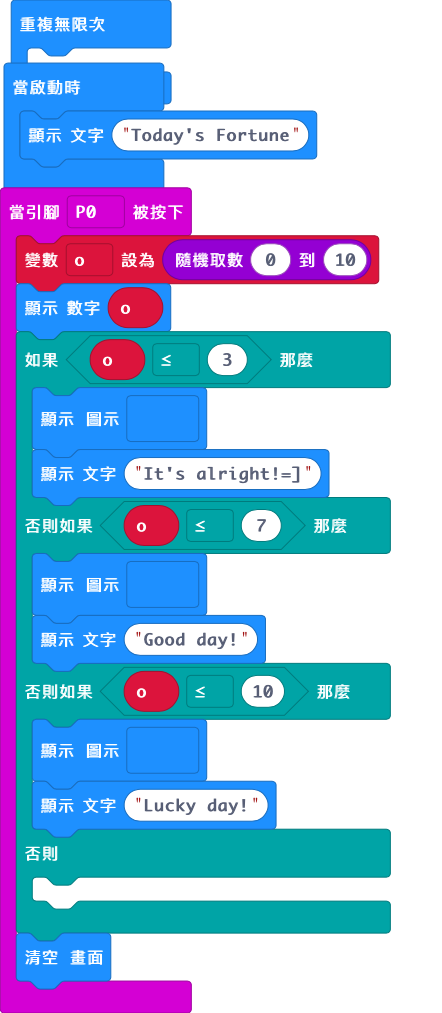
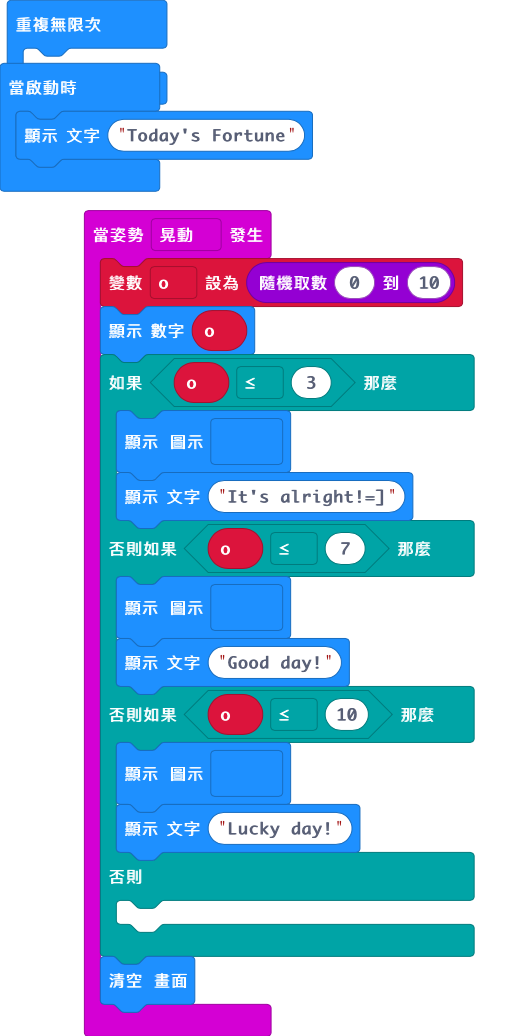
Update main.blocks, main.ts

diff --git a/main.ts b/main.ts
@@ -1,4 +1,4 @@
-input.onPinPressed(TouchPin.P0, function () {
+input.onGesture(Gesture.Shake, function () {
     o = randint(0, 10)
     basic.showNumber(o)
     if (o <= 3) {
